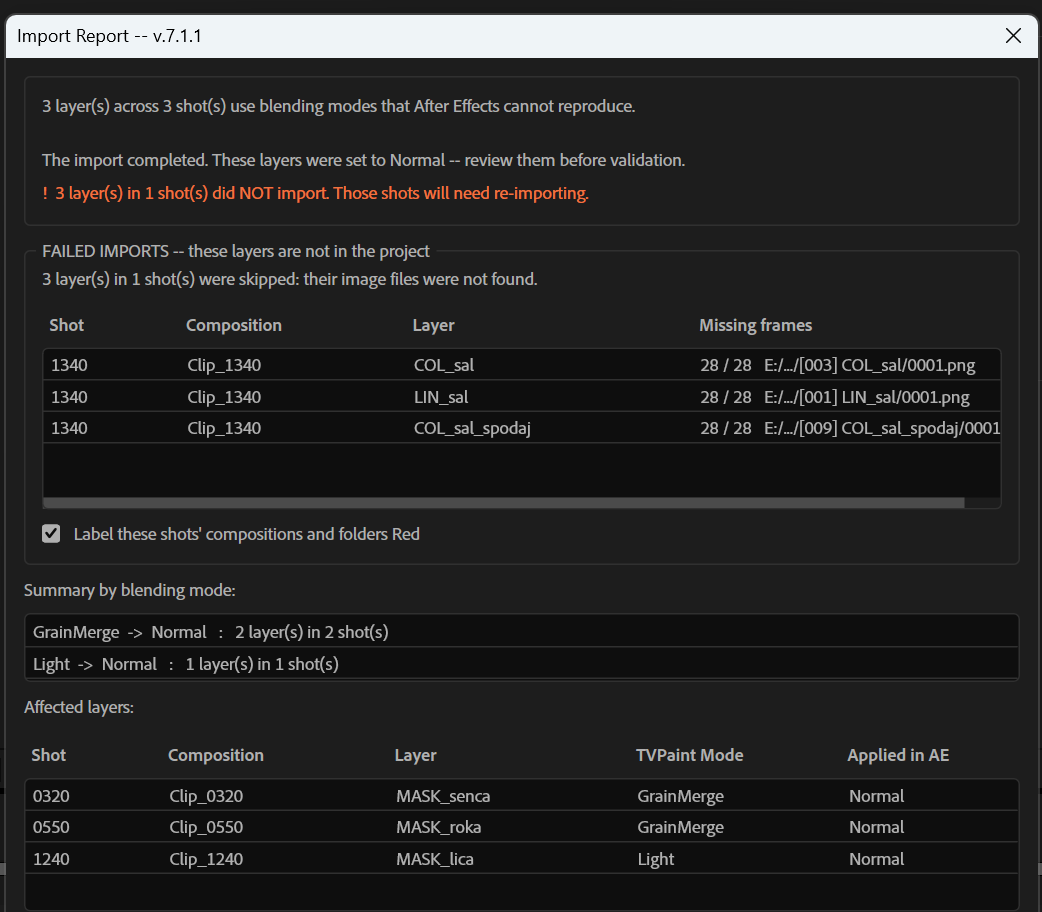
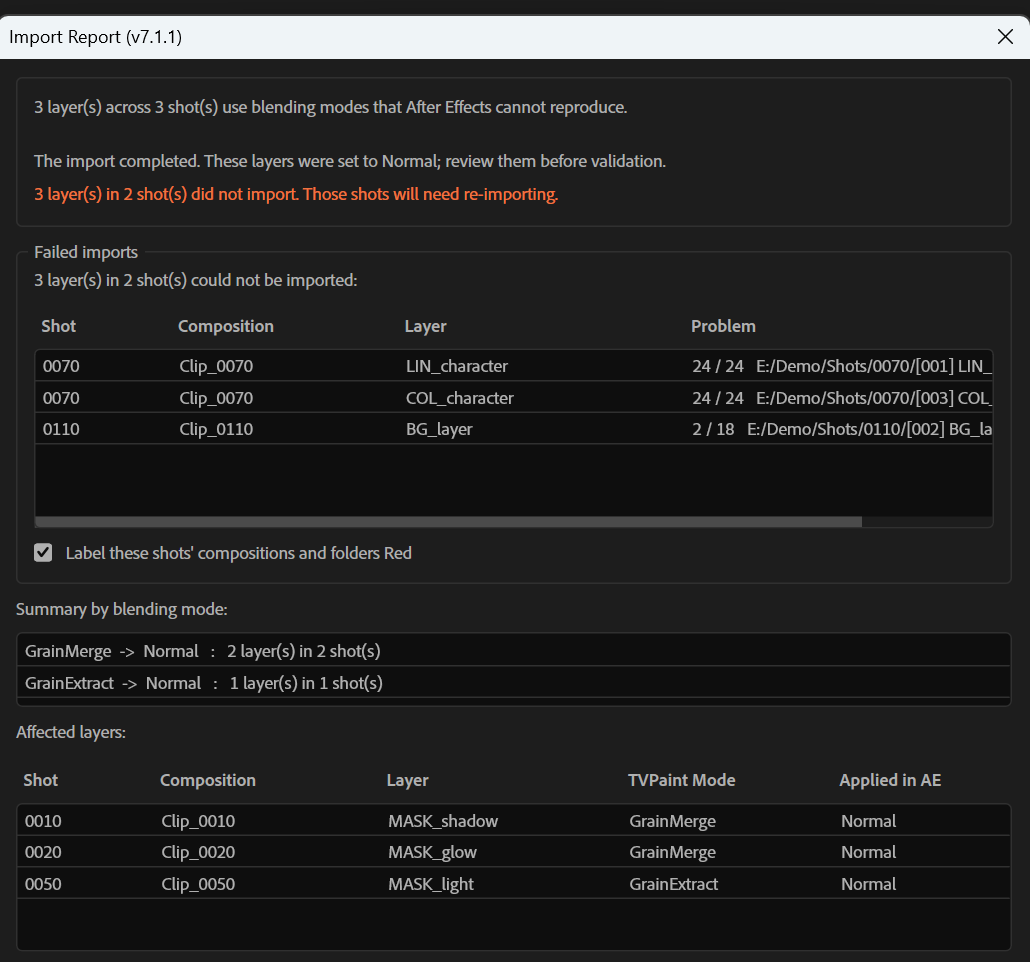
feat: put the single-JSON picker on the main panel
Importing shots one at a time meant opening the Shot Browser and then
reaching for its Browse Single JSON button -- a wasted click every time. The
picker now sits on the main panel directly under Select Shots, and has been
removed from the browser so each action has one home.

Stacked rather than placed side by side: the French label runs to 39
characters and would clip in a half-width button. The panel grows 465 -> 495
and the controls below shift down accordingly.

Also replaces both README screenshots. They showed real production paths and
shot names, and the browser one predated the button move; both are now taken
against an anonymised demo folder. Adds the single-shot picker and the two
reporting modes to the feature list.

Verified in After Effects 26.0x67: both buttons render at full width with the
settings below correctly shifted, and the browser's button row is now just
Cancel and Import Selected Shots.

diff --git a/AfterEffects_Import TVPaint_JSON_7._1++.jsx b/AfterEffects_Import TVPaint_JSON_7._1++.jsx
@@ -1108,7 +1108,6 @@ function OpenShotBrowserDialog(initialBaseFolder, settings) {
     actionGroup.alignment = ["right", "center"];
     actionGroup.spacing = 8;
     
-    var btnDirectFile = actionGroup.add("button", undefined, message[lang]["UI::Browser::DirectFile"] || "Browse Single JSON...");
     var btnCancel = actionGroup.add("button", undefined, message[lang]["UI::Browser::Cancel"] || "Cancel");
     var btnImport = actionGroup.add("button", undefined, (message[lang]["UI::Browser::ImportBtn"] || "Import Selected") + " (0)");
     btnImport.preferredSize = [180, 28];
@@ -1253,18 +1252,6 @@ function OpenShotBrowserDialog(initialBaseFolder, settings) {
         win.close();
     };
 
-    btnDirectFile.onClick = function() {
-        var dataFile = File.openDialog( message[lang]["FileBrowser::Info"], "JSON Files:*.json", false );
-        if (!dataFile) return;
-        if (!FileExists(dataFile)) return;
-        
-        SaveSetting("LastFolder", dataFile.parent.fsName);
-        win.close();
-        importPanel.close();
-        $.sleep(50);
-        ExecuteImport([dataFile], settings);
-    };
-
     btnImport.onClick = function() {
         var sel = shotListBox.selection;
         if (!sel) return;
@@ -1298,31 +1285,32 @@ function OpenShotBrowserDialog(initialBaseFolder, settings) {
 
 //////////////////////////////////////////////////////////////////////////////////////////////
 // GUI Panel
-var importPanel = new Window("palette", message[lang]["UI::Title"], {x:0, y:0, width:450, height:465});
+var importPanel = new Window("palette", message[lang]["UI::Title"], {x:0, y:0, width:450, height:495});
 var staticTextInfo 				= importPanel.add( "statictext", 	{x:25,  y:10,  width:400, height:25}, 	message[lang]["UI::Label::Info"]			);
 var buttonBrowse 				= importPanel.add( "button", 		{x:25,  y:45,  width:400, height:26}, 	message[lang]["UI::Label::Browse"]			);
-var staticTextSettingsTitle 	= importPanel.add( "statictext", 	{x:25,  y:80,  width:200, height:20}, 	message[lang]["UI::Label::Settings"]		);
-var checkboxImportCamera 		= importPanel.add( "checkbox", 		{x:25,  y:115, width:200, height:20}, 	message[lang]["UI::Camera::Import"] 		);
-var radioCameraKeys 			= importPanel.add( "radiobutton", 	{x:250, y:115, width:200, height:20}, 	message[lang]["UI::Camera::Key"] 			);
-var radioCameraRaw 				= importPanel.add( "radiobutton", 	{x:250, y:135, width:200, height:20}, 	message[lang]["UI::Camera::Raw"] 			);
-var checkboxLayerColors 		= importPanel.add( "checkbox", 		{x:25,  y:175, width:200, height:20},	message[lang]["UI::Label::LayerColors"] 	);
-var checkboxTimeRemap		 	= importPanel.add( "checkbox", 		{x:250, y:175, width:200, height:20}, 	message[lang]["UI::Label::TimeRemap"] 		);
-var checkboxBlendingModes 		= importPanel.add( "checkbox", 		{x:25,  y:210, width:200, height:20}, 	message[lang]["UI::Label::BlendingMode"]	);
-var checkboxPrePostBehaviours 	= importPanel.add( "checkbox", 		{x:250, y:210, width:200, height:20}, 	message[lang]["UI::Label::PrePostB"] 		);
-var staticTextSeqImport 		= importPanel.add( "statictext", 	{x:25,  y:250, width:200, height:20}, 	message[lang]["UI::Label::Sequence2"] 		);
+var buttonSingleJSON 			= importPanel.add( "button", 		{x:25,  y:75,  width:400, height:26}, 	message[lang]["UI::Browser::DirectFile"]	);
+var staticTextSettingsTitle 	= importPanel.add( "statictext", 	{x:25,  y:110,  width:200, height:20}, 	message[lang]["UI::Label::Settings"]		);
+var checkboxImportCamera 		= importPanel.add( "checkbox", 		{x:25,  y:145, width:200, height:20}, 	message[lang]["UI::Camera::Import"] 		);
+var radioCameraKeys 			= importPanel.add( "radiobutton", 	{x:250, y:145, width:200, height:20}, 	message[lang]["UI::Camera::Key"] 			);
+var radioCameraRaw 				= importPanel.add( "radiobutton", 	{x:250, y:165, width:200, height:20}, 	message[lang]["UI::Camera::Raw"] 			);
+var checkboxLayerColors 		= importPanel.add( "checkbox", 		{x:25,  y:205, width:200, height:20},	message[lang]["UI::Label::LayerColors"] 	);
+var checkboxTimeRemap		 	= importPanel.add( "checkbox", 		{x:250, y:205, width:200, height:20}, 	message[lang]["UI::Label::TimeRemap"] 		);
+var checkboxBlendingModes 		= importPanel.add( "checkbox", 		{x:25,  y:240, width:200, height:20}, 	message[lang]["UI::Label::BlendingMode"]	);
+var checkboxPrePostBehaviours 	= importPanel.add( "checkbox", 		{x:250, y:240, width:200, height:20}, 	message[lang]["UI::Label::PrePostB"] 		);
+var staticTextSeqImport 		= importPanel.add( "statictext", 	{x:25,  y:280, width:200, height:20}, 	message[lang]["UI::Label::Sequence2"] 		);
 var ddListArraySeqImport 		= new Array( 	message[lang]["UI::Label::Sequence2::Rebuilt"], 
 												message[lang]["UI::Label::Sequence2::Native"] );
-var dropdownlistSeqImport 		= importPanel.add( "dropdownlist", 	{x:25, y:280, width:300, height:20}, 	ddListArraySeqImport );
-var staticTextSeqSorting 		= importPanel.add( "statictext", 	{x:25, y:315, width:350, height:20}, 	message[lang]["UI::Label::Sequence"] 		);
+var dropdownlistSeqImport 		= importPanel.add( "dropdownlist", 	{x:25, y:310, width:300, height:20}, 	ddListArraySeqImport );
+var staticTextSeqSorting 		= importPanel.add( "statictext", 	{x:25, y:345, width:350, height:20}, 	message[lang]["UI::Label::Sequence"] 		);
 var ddListArraySeqSorting 		= new Array( 	message[lang]["UI::Label::Sequence::Index"], 
 												message[lang]["UI::Label::Sequence::Name"] );
-var dropdownlistSeqSorting 		= importPanel.add( "dropdownlist", 	{x:25, y:345, width:300, height:20}, 	ddListArraySeqSorting );
+var dropdownlistSeqSorting 		= importPanel.add( "dropdownlist", 	{x:25, y:375, width:300, height:20}, 	ddListArraySeqSorting );
 
 // Appended below the existing controls so nothing above shifts. Radios rather than a
 // checkbox: both modes are then named, instead of one being an unlabelled default.
-var staticTextReporting 		= importPanel.add( "statictext", 	{x:25, y:385, width:400, height:20}, 	message[lang]["UI::Label::Reporting"] 			);
-var radioReportSummary 			= importPanel.add( "radiobutton", 	{x:25, y:410, width:400, height:20}, 	message[lang]["UI::Label::Reporting::Summary"] 	);
-var radioReportEach 			= importPanel.add( "radiobutton", 	{x:25, y:432, width:400, height:20}, 	message[lang]["UI::Label::Reporting::Each"] 	);
+var staticTextReporting 		= importPanel.add( "statictext", 	{x:25, y:415, width:400, height:20}, 	message[lang]["UI::Label::Reporting"] 			);
+var radioReportSummary 			= importPanel.add( "radiobutton", 	{x:25, y:440, width:400, height:20}, 	message[lang]["UI::Label::Reporting::Summary"] 	);
+var radioReportEach 			= importPanel.add( "radiobutton", 	{x:25, y:462, width:400, height:20}, 	message[lang]["UI::Label::Reporting::Each"] 	);
 
 // Restore persisted settings with Native Sequence (1) as default
 var savedSeqImportMode 			= LoadIntSetting("SeqImportMode", 1);
@@ -1420,6 +1408,21 @@ buttonBrowse.onClick = function() {
     var settings = GetCurrentSettings();
     
     OpenShotBrowserDialog(initialFolder, settings);
+};
+
+// Straight to the file picker. Importing shots one at a time is common enough that
+// routing it through the browser was a wasted click each time.
+buttonSingleJSON.onClick = function() {
+    SaveAllSettings();
+    var dataFile = File.openDialog( message[lang]["FileBrowser::Info"], "JSON Files:*.json", false );
+    if (!dataFile) return;
+    if (!FileExists(dataFile)) return;
+
+    var settings = GetCurrentSettings();
+    SaveSetting("LastFolder", dataFile.parent.fsName);
+    importPanel.close();
+    $.sleep(50);
+    ExecuteImport([dataFile], settings);
 };
 
 //////////////////////////////////////////////////////////////////////////////////////////////

diff --git a/README.md b/README.md
@@ -18,11 +18,13 @@ Compatible with **TVPaint 11 / TVPaint 12** and **Adobe After Effects (CS5 throu
 ### Batch importing
 - **Interactive Shot Browser** — browse shot folders with Date Modified, filter by name, multi-select with `Shift`/`Ctrl`.
 - **Multi-shot import** — finds the matching `.json` in each selected folder and imports them in sequence, with progress.
+- **Single-shot import** — a file picker on the main panel, straight to one `.json` without the browser.
 - **Automatic comp naming** — `Clip_<shotName>`.
 - **Settings persistence** — UI options and root folder are remembered between sessions.
 
 ### Import Report
 - **No modal interruptions** — problems are collected during the run and shown once at the end, so a large batch can be left alone.
+- **Two reporting modes** — one summary when the import finishes, or an alert on each problem.
 - **Failed imports first** — layers whose frames are missing are skipped, listed, and flagged; the rest of the batch still imports.
 - **Fix blending modes in place** — select layers, pick a mode, apply. Clicking a summary row selects every layer using that mode.
 - **Red labels** — failed shots' comps and folders (on by default); unresolved layers (off by default).
@@ -62,7 +64,7 @@ Compatible with **TVPaint 11 / TVPaint 12** and **Adobe After Effects (CS5 throu
 
 ## Screenshots
 
-**Shot Browser** — pick one or many shots to import.
+**Shot Browser** — pick one or many shots to import. The main panel also has a direct picker for a single `.json`.
 
 <img src="docs/MultiShotSelectExample.png" width="620" alt="TVPaint Shot Browser" />
 
